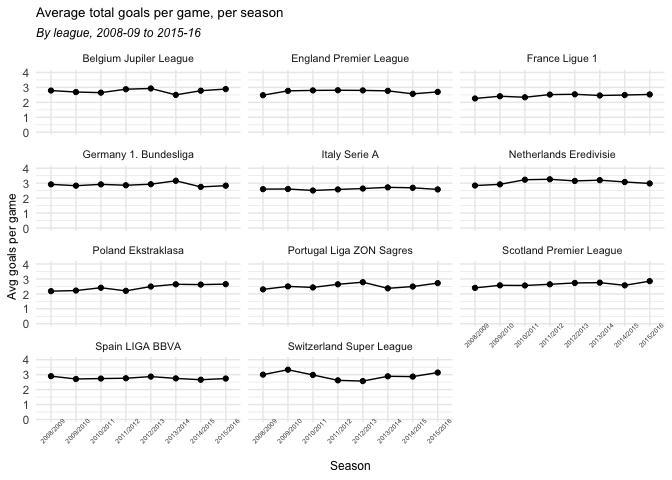
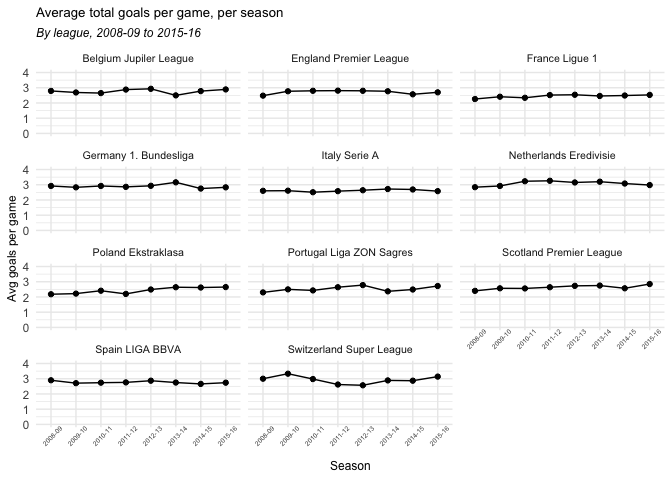
updated goalspoints dataframe

diff --git a/Euro_soccer_database_analysis.md b/Euro_soccer_database_analysis.md
@@ -3,6 +3,16 @@ European Soccer database analysis
 greg dubrow
 June 09, 2019
 
+``` r
+# load the packages used for loading, cleaing & visualization
+library(tidyverse)
+library(lubridate)
+library(RSQLite)
+library(janitor)
+library(usethis)
+library(knitr)
+```
+
 European soccer data set sourced from Kaggle at
 <https://www.kaggle.com/hugomathien/soccer> Some variable definitions:
 <http://www.football-data.co.uk/notes.txt>
@@ -79,6 +89,11 @@ glimpse(teamall)
 ## create home & away points, total match goals, avg goals per season, stage (by season)
 ## later joins to teamall to add team long & short names
 points1  <- matchdb %>%
+  ## shorten season field
+  mutate(season2 = str_replace(season, "/20", "-")) %>%
+  select(-season) %>%
+  rename(season = season2) %>%
+
   ## add leading zero to stage for easier sorting later
   mutate(stage_chr = str_pad(stage, width=2, side="left", pad="0")) %>%
   select(-stage) %>%
@@ -93,8 +108,17 @@ points1  <- matchdb %>%
                                  home_team_goal == away_team_goal ~ 1)) %>%
   mutate(total_goals = home_team_goal + away_team_goal) %>%
   mutate(goaldiff_ha = home_team_goal - away_team_goal) %>%
-    
-  rename(match_date = date) %>%
+   
+  # change match date from chr to date format w/ new name
+  # extract month for both numeric and factor. order factor to start in August
+  mutate(match_date = ymd_hms(date)) %>%
+  mutate(match_month = format(as.Date(match_date), "%m")) %>%
+  mutate(match_month_t = month(match_date, label = TRUE, abbr = FALSE)) %>%
+  mutate(match_month_t = (factor(match_month_t, levels = c("August", "September", "October",
+                                                           "November", "December", "January",
+                                                           "February", "March", "April", "May",
+                                                           "June", "July")))) %>%
+  select(-date) %>%
   
   # compute avg home, away & total goals per game per season
   arrange(league_id, season) %>%
@@ -105,31 +129,45 @@ points1  <- matchdb %>%
   mutate(gdiff_ha_avg = round(mean(goaldiff_ha), 2)) %>%
   ungroup() %>%
     
-  # compute avg home, away & total goals per game per stage per season
+  # compute avg home, away & total goals per game per stage per season & league
   arrange(league_id, season, match_date) %>%
   group_by(league_id, season, stage) %>%
   mutate(gpgst_home = round(mean(home_team_goal), 2)) %>%
   mutate(gpgst_away = round(mean(away_team_goal), 2)) %>%
   mutate(gpgst_total = mean(total_goals)) %>%
   ungroup() %>%
-  
-  select(id, country_id, league_id, season, stage, match_api_id, match_date,
+
+# compute avg home, away & total goals per game per month per season & league
+  arrange(league_id, season, match_month_t) %>%
+  group_by(league_id, season, match_month_t) %>%
+  mutate(gpgm_home = round(mean(home_team_goal), 2)) %>%
+  mutate(gpgm_away = round(mean(away_team_goal), 2)) %>%
+  mutate(gpgm_total = round(mean(total_goals), 2)) %>%
+  ungroup() %>%
+
+## note - above are by league - maybe do overall by season, and see which leagues above/below total avg?  
+    
+  select(id, country_id, league_id, season, stage, match_api_id, 
+         match_date, match_month, match_month_t,
          home_team_api_id, away_team_api_id, 
          home_team_goal, away_team_goal, total_goals, goaldiff_ha, gdiff_ha_avg,
          gpgs_home, gpgs_away, gpgs_total, gpgst_home, gpgst_away, gpgst_total,
+         gpgm_home, gpgm_away, gpgm_total,
          points_home, points_away)
 glimpse(points1)
 ```
 
     ## Observations: 25,979
-    ## Variables: 22
+    ## Variables: 27
     ## $ id               <int> 2, 3, 5, 7, 8, 9, 1, 4, 101, 102, 104, 105, 106…
     ## $ country_id       <int> 1, 1, 1, 1, 1, 1, 1, 1, 1, 1, 1, 1, 1, 1, 1, 1,…
     ## $ league_id        <int> 1, 1, 1, 1, 1, 1, 1, 1, 1, 1, 1, 1, 1, 1, 1, 1,…
-    ## $ season           <chr> "2008/2009", "2008/2009", "2008/2009", "2008/20…
+    ## $ season           <chr> "2008-09", "2008-09", "2008-09", "2008-09", "20…
     ## $ stage            <chr> "01", "01", "01", "01", "01", "01", "01", "01",…
     ## $ match_api_id     <int> 492474, 492475, 492477, 492479, 492480, 492481,…
-    ## $ match_date       <chr> "2008-08-16 00:00:00", "2008-08-16 00:00:00", "…
+    ## $ match_date       <dttm> 2008-08-16, 2008-08-16, 2008-08-16, 2008-08-16…
+    ## $ match_month      <chr> "08", "08", "08", "08", "08", "08", "08", "08",…
+    ## $ match_month_t    <ord> August, August, August, August, August, August,…
     ## $ home_team_api_id <int> 10000, 9984, 7947, 9999, 4049, 10001, 9987, 999…
     ## $ away_team_api_id <int> 9994, 8635, 9985, 8571, 9996, 9986, 9993, 9998,…
     ## $ home_team_goal   <int> 0, 0, 1, 2, 1, 1, 1, 5, 2, 3, 1, 4, 3, 2, 1, 3,…
@@ -143,6 +181,9 @@ glimpse(points1)
     ## $ gpgst_home       <dbl> 1.33, 1.33, 1.33, 1.33, 1.33, 1.33, 1.33, 1.33,…
     ## $ gpgst_away       <dbl> 1.33, 1.33, 1.33, 1.33, 1.33, 1.33, 1.33, 1.33,…
     ## $ gpgst_total      <dbl> 2.666667, 2.666667, 2.666667, 2.666667, 2.66666…
+    ## $ gpgm_home        <dbl> 1.72, 1.72, 1.72, 1.72, 1.72, 1.72, 1.72, 1.72,…
+    ## $ gpgm_away        <dbl> 1.12, 1.12, 1.12, 1.12, 1.12, 1.12, 1.12, 1.12,…
+    ## $ gpgm_total       <dbl> 2.84, 2.84, 2.84, 2.84, 2.84, 2.84, 2.84, 2.84,…
     ## $ points_home      <dbl> 1, 0, 0, 1, 0, 3, 1, 3, 1, 3, 3, 3, 3, 3, 1, 3,…
     ## $ points_away      <dbl> 1, 3, 3, 1, 3, 0, 1, 0, 1, 0, 0, 0, 0, 0, 1, 0,…
 
@@ -157,11 +198,13 @@ points2 <- left_join(points1, teamall, by = c("home_team_api_id" = "team_api_id"
 goalspoints <- left_join(points2, teamall, by = c("away_team_api_id" = "team_api_id")) %>%
   rename(away_team_name_l = team_long_name, away_team_name_s = team_short_name,
          away_team_id_fifa = team_fifa_api_id) %>%
-  select(id, league_id, country, league, season, stage, match_api_id, match_date,
+  select(id, league_id, country, league, season, stage, match_api_id, 
+         match_date, match_month, match_month_t,
          home_team_api_id, home_team_name_l, home_team_name_s, home_team_id_fifa,
          away_team_api_id, away_team_name_l, away_team_name_s, away_team_id_fifa, 
          home_team_goal, away_team_goal, total_goals, goaldiff_ha, gdiff_ha_avg,
          gpgs_home, gpgs_away, gpgs_total, gpgst_home, gpgst_away, gpgst_total,
+         gpgm_home, gpgm_away, gpgm_total,
          points_home, points_away) %>%
   arrange(league_id, season, stage, match_date)
 
@@ -169,15 +212,17 @@ glimpse(goalspoints)
 ```
 
     ## Observations: 25,979
-    ## Variables: 29
+    ## Variables: 34
     ## $ id                <int> 2, 3, 5, 7, 8, 9, 1, 4, 6, 101, 102, 104, 105,…
     ## $ league_id         <int> 1, 1, 1, 1, 1, 1, 1, 1, 1, 1, 1, 1, 1, 1, 1, 1…
     ## $ country           <chr> "Belgium", "Belgium", "Belgium", "Belgium", "B…
     ## $ league            <chr> "Belgium Jupiler League", "Belgium Jupiler Lea…
-    ## $ season            <chr> "2008/2009", "2008/2009", "2008/2009", "2008/2…
+    ## $ season            <chr> "2008-09", "2008-09", "2008-09", "2008-09", "2…
     ## $ stage             <chr> "01", "01", "01", "01", "01", "01", "01", "01"…
     ## $ match_api_id      <int> 492474, 492475, 492477, 492479, 492480, 492481…
-    ## $ match_date        <chr> "2008-08-16 00:00:00", "2008-08-16 00:00:00", …
+    ## $ match_date        <dttm> 2008-08-16, 2008-08-16, 2008-08-16, 2008-08-1…
+    ## $ match_month       <chr> "08", "08", "08", "08", "08", "08", "08", "08"…
+    ## $ match_month_t     <ord> August, August, August, August, August, August…
     ## $ home_team_api_id  <int> 10000, 9984, 7947, 9999, 4049, 10001, 9987, 99…
     ## $ home_team_name_l  <chr> "SV Zulte-Waregem", "KSV Cercle Brugge", "FCV …
     ## $ home_team_name_s  <chr> "ZUL", "CEB", "DEN", "ROS", "TUB", "WES", "GEN…
@@ -197,6 +242,9 @@ glimpse(goalspoints)
     ## $ gpgst_home        <dbl> 1.33, 1.33, 1.33, 1.33, 1.33, 1.33, 1.33, 1.33…
     ## $ gpgst_away        <dbl> 1.33, 1.33, 1.33, 1.33, 1.33, 1.33, 1.33, 1.33…
     ## $ gpgst_total       <dbl> 2.666667, 2.666667, 2.666667, 2.666667, 2.6666…
+    ## $ gpgm_home         <dbl> 1.72, 1.72, 1.72, 1.72, 1.72, 1.72, 1.72, 1.72…
+    ## $ gpgm_away         <dbl> 1.12, 1.12, 1.12, 1.12, 1.12, 1.12, 1.12, 1.12…
+    ## $ gpgm_total        <dbl> 2.84, 2.84, 2.84, 2.84, 2.84, 2.84, 2.84, 2.84…
     ## $ points_home       <dbl> 1, 0, 0, 1, 0, 3, 1, 3, 1, 1, 3, 3, 3, 3, 3, 1…
     ## $ points_away       <dbl> 1, 3, 3, 1, 3, 0, 1, 0, 1, 1, 0, 0, 0, 0, 0, 1…
 

diff --git a/README.md b/README.md
@@ -1,7 +1,9 @@
-Because I like soccer and datanerding...
+Because I like soccer and datanerding...migrating older project from laptop to github
 
 Exploring the European Soccer Database, sourced from Kaggle at https://www.kaggle.com/hugomathien/soccer
 
 Some variable definitions: http://www.football-data.co.uk/notes.txt
 
 Contains team, player and match informaton for 11 European leagues. Seasons covered are 2008-09 to 2015-16
+
+See the Euro_soccer_database_analysis.md file for code output
